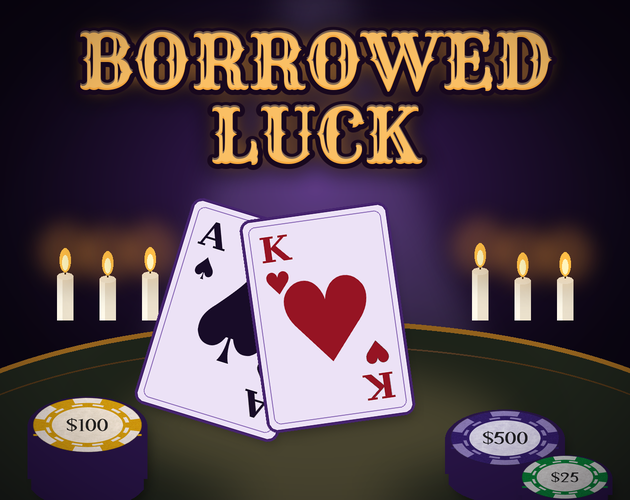
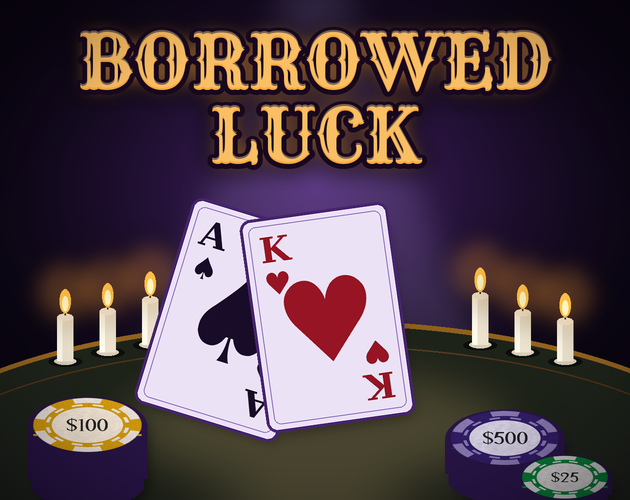
Cover: candles stand on the felt

Changed region(s): [[0.7238, 0.42, 0.9651, 0.75], [0.0603, 0.42, 0.3016, 0.75]]

diff --git a/tools/make_cover.py b/tools/make_cover.py
@@ -79,9 +79,17 @@ def felt():
     return over(out, glow(pool, 55))
 
 
-def candle(x, y, h):
+def felt_edge(x):
+    """The y of the felt's far rim at x (the felt is an ellipse centred at (630, 970), radii 890 and 330)."""
+    return 970 - 330 * math.sqrt(max(0.0, 1 - ((x - 630) / 890) ** 2))
+
+
+def candle(x, h):
+    y = felt_edge(x) + 26
     out = layer()
     d = ImageDraw.Draw(out)
+    d.ellipse((x - 34, y - 9, x + 34, y + 11), fill=(0, 0, 0, 150))
+    d.ellipse((x - 22, y - 7, x + 22, y + 7), fill=(215, 205, 185, 255))
     d.rectangle((x - 16, y - h, x + 16, y), fill=(236, 226, 205, 255))
     d.rectangle((x - 16, y - h, x - 6, y), fill=(255, 250, 235, 255))
     d.ellipse((x - 16, y - h - 7, x + 16, y - h + 7), fill=(245, 240, 225, 255))
@@ -257,9 +265,9 @@ def main():
     img = over(img, spotlight())
     img = over(img, felt())
     for cx in (130, 215, 300):
-        img = over(img, candle(cx, 640, 90 + rng.randint(-12, 12)))
+        img = over(img, candle(cx, 90 + rng.randint(-12, 12)))
     for cx in (960, 1045, 1130):
-        img = over(img, candle(cx, 640, 90 + rng.randint(-12, 12)))
+        img = over(img, candle(cx, 90 + rng.randint(-12, 12)))
     img = place(img, card(300, 430, "A", "\u2660", False), (470, 640), -17)
     img = place(img, card(300, 430, "K", "\u2665", True), (655, 635), 8)
     img = chip_stack(img, "100_Dollar_casino_chip_1.png", 175, 880, 6, 240)
